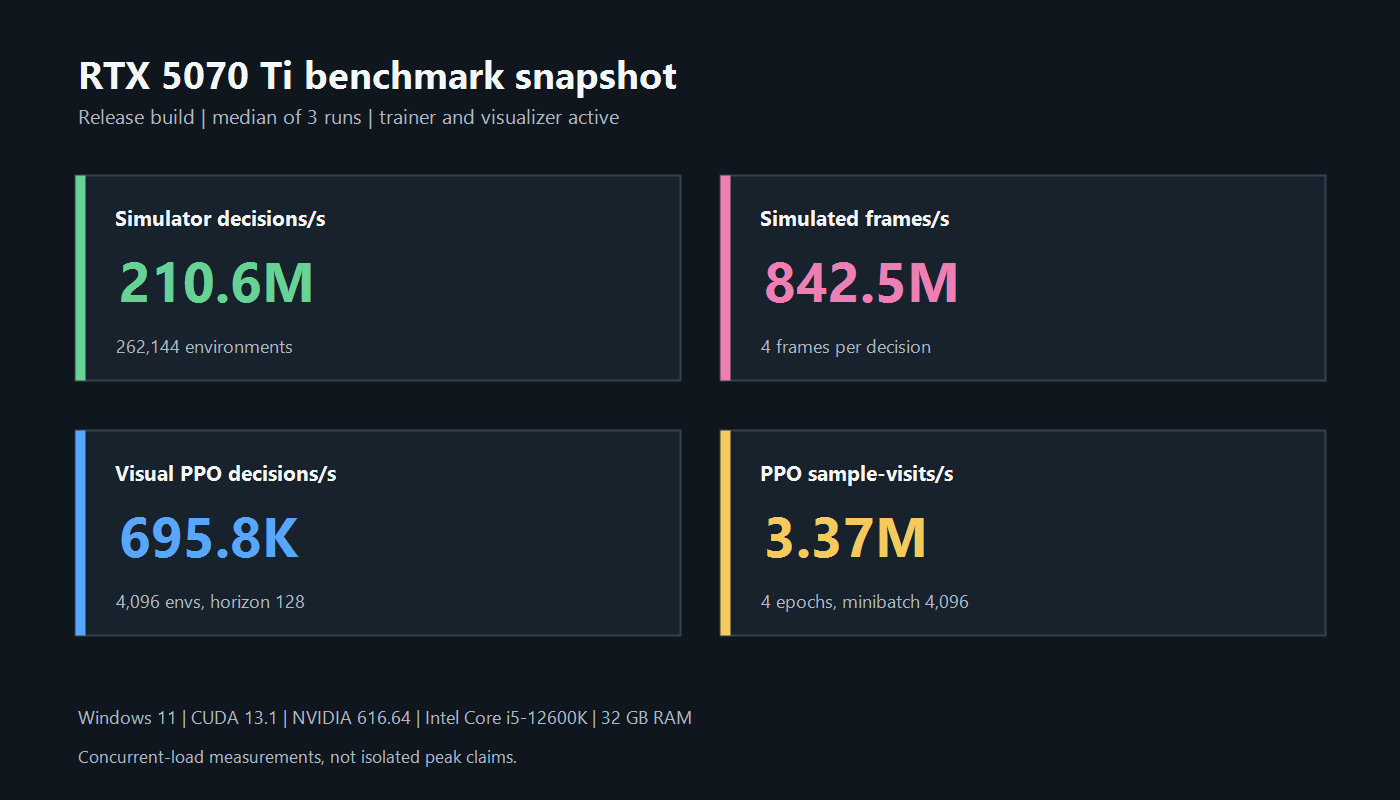
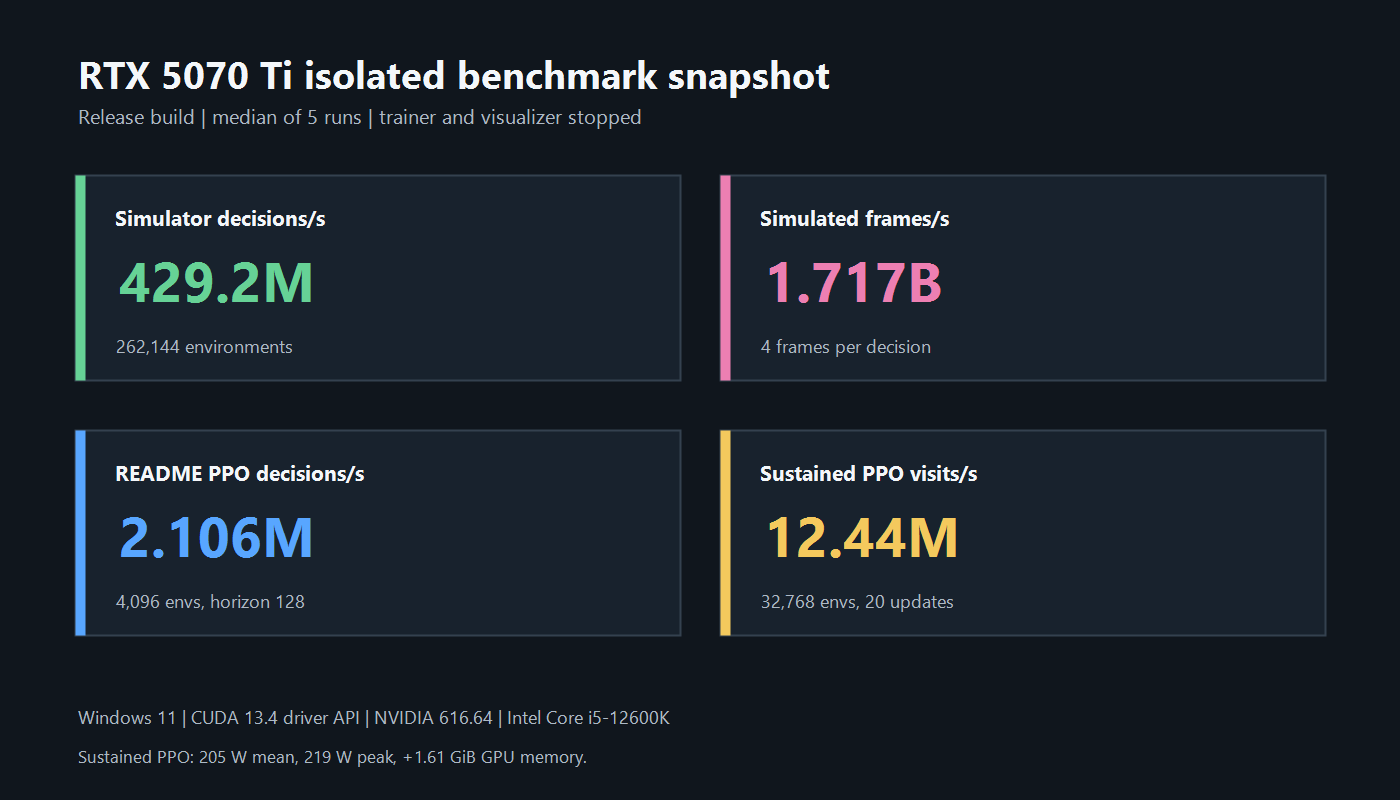
Refresh benchmark image with isolated results

diff --git a/README.md b/README.md
@@ -392,8 +392,8 @@ power, memory, utilization, temperature, and clocks every 100 ms.
 | Simulator-only: mean board power, memory above idle | 122 W, 308 MiB | 114 – 129 W | 5.0% |
 
 These are about 2x the earlier 2026-09-20 figures (210.6M simulator decisions/s and 696K
-visual-PPO decisions/s). Those were measured while the overnight trainer and visualizer shared
-the GPU, and the chart below still shows them.
+visual-PPO decisions/s). Those earlier numbers were measured while the overnight trainer and
+visualizer shared the GPU.
 Full per-run data (JSON) and the summary are in
 [docs/benchmarks/isolated_2026-09-23.md](docs/benchmarks/isolated_2026-09-23.md). Reproduce with:
 
@@ -403,7 +403,7 @@ Full per-run data (JSON) and the summary are in
 
 The script refuses to run while the trainer, visualizer, or live runtime is active.
 
-![RTX 5070 Ti benchmark results (2026-09-20, concurrent load)](docs/images/v3-benchmarks.png)
+![RTX 5070 Ti benchmark results (2026-09-23, isolated)](docs/images/v3-benchmarks.png)
 
 Performance depends on batch size, GPU, CUDA build, observation contract, opponent mix, and
 concurrent GPU load; record the exact commit and command alongside new measurements.
